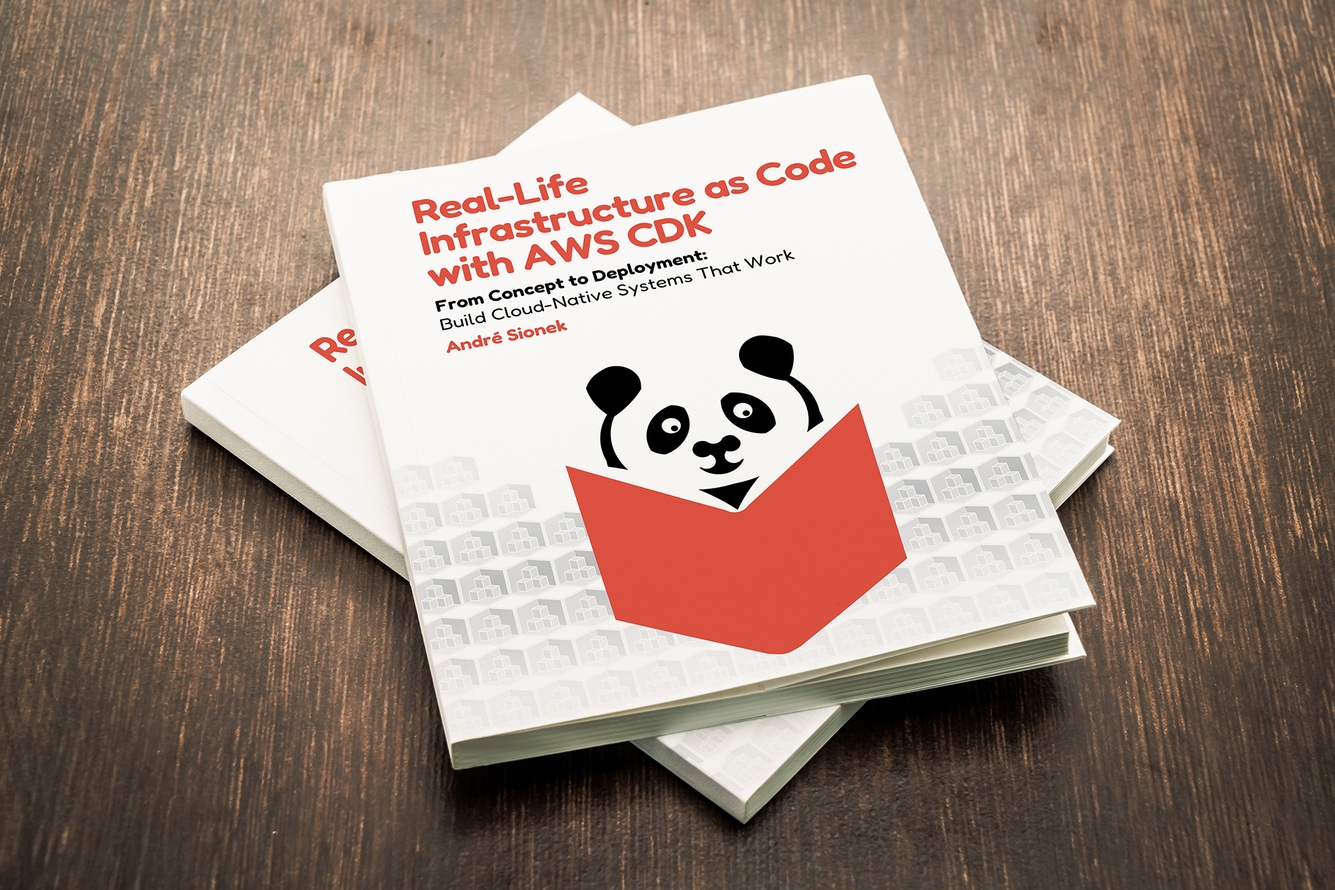
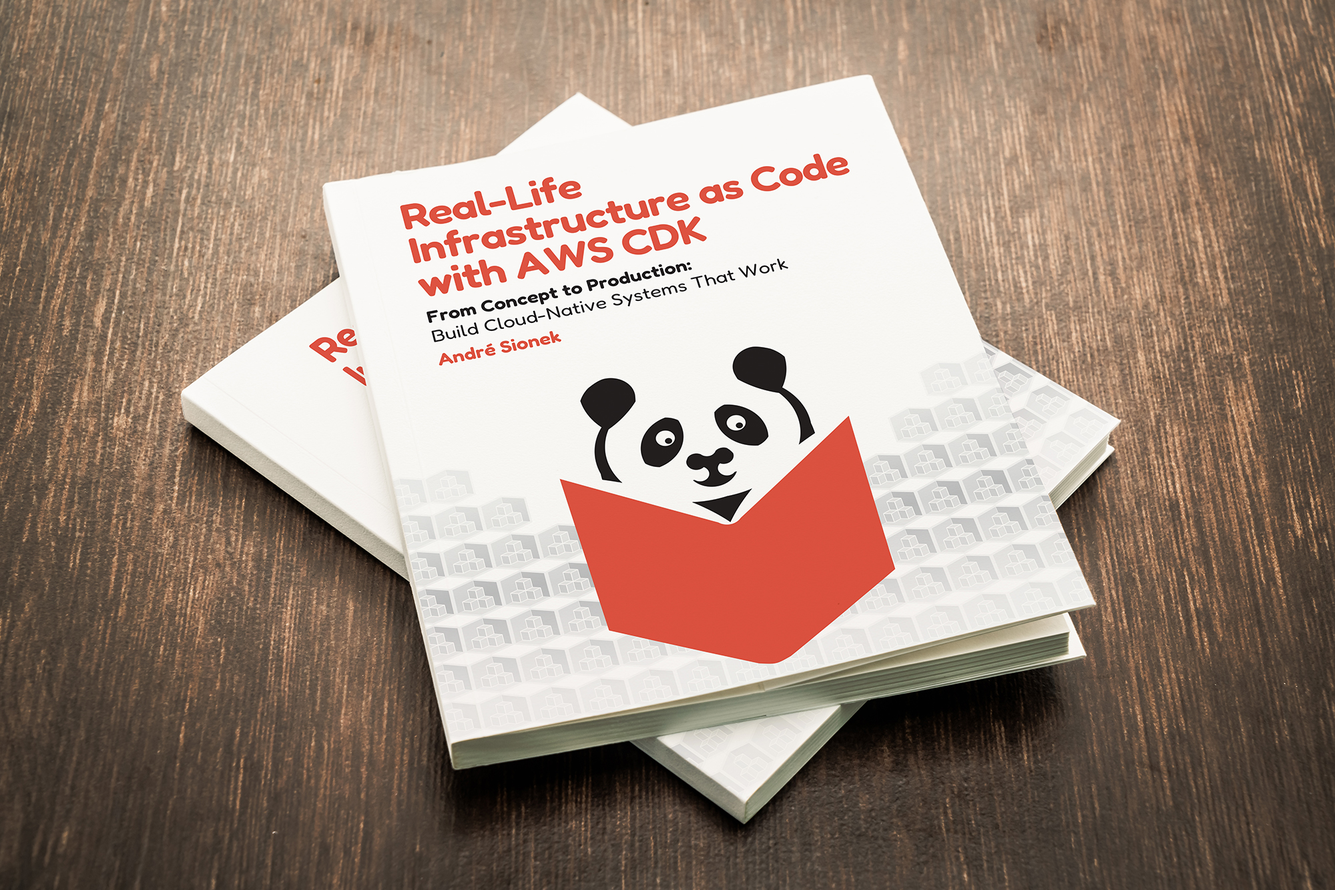
fix: adjust book title

Changed region(s): [[0.31, 0.3688, 0.806, 0.7684], [0.279, 0.1537, 0.651, 0.3996]]

diff --git a/app/index.html b/app/index.html
@@ -6,7 +6,7 @@
   <meta name="viewport" content="width=device-width, initial-scale=1.0" />
   <title>eBook: Real-life IaC with AWS CDK</title>
   <meta name="description"
-    content="Download your exclusive eBook now and dive into the world of Infrastructure as Code (IaC) with 'Real-Life Infrastructure as Code with AWS CDK - From Concept to Deployment: Build Cloud-Native Systems That Work'. Perfect for developers and data engineers, this guide offers practical examples, best practices, and expert insights into building and managing cloud infrastructure using AWS CDK. Whether you're looking to streamline deployments, enhance scalability, or secure your cloud environments, this book equips you with the knowledge to leverage IaC principles effectively. Transform your development workflow and achieve more with less code." />
+    content="Download your exclusive eBook now and dive into the world of Infrastructure as Code (IaC) with 'Real-Life Infrastructure as Code with AWS CDK - From Concept to Production: Build Cloud-Native Systems That Work'. Perfect for developers and data engineers, this guide offers practical examples, best practices, and expert insights into building and managing cloud infrastructure using AWS CDK. Whether you're looking to streamline deployments, enhance scalability, or secure your cloud environments, this book equips you with the knowledge to leverage IaC principles effectively. Transform your development workflow and achieve more with less code." />
   <meta name="keywords"
     content="CDK, AWS, AWS CDK, ebook, book, learn CDK, CDK for dummies, Iac with CDK, Infrastructure as Code, Cloud Development Kit, CloudFormation, DevOps, Cloud, IaC, Terraform, Python, Cloud Best Practices" />
   <meta name="author" content="André Sionek" />
@@ -18,7 +18,7 @@
   <meta property="og:url" content="https://real-life-iac.com" />
   <meta property="og:title" content="eBook: Real-life IaC with AWS CDK" />
   <meta property="og:description"
-    content="Download your exclusive eBook now and dive into the world of Infrastructure as Code (IaC) with 'Real-Life Infrastructure as Code with AWS CDK - From Concept to Deployment: Build Cloud-Native Systems That Work'. Perfect for developers and data engineers, this guide offers practical examples, best practices, and expert insights into building and managing cloud infrastructure using AWS CDK. Whether you're looking to streamline deployments, enhance scalability, or secure your cloud environments, this book equips you with the knowledge to leverage IaC principles effectively. Transform your development workflow and achieve more with less code." />
+    content="Download your exclusive eBook now and dive into the world of Infrastructure as Code (IaC) with 'Real-Life Infrastructure as Code with AWS CDK - From Concept to Production: Build Cloud-Native Systems That Work'. Perfect for developers and data engineers, this guide offers practical examples, best practices, and expert insights into building and managing cloud infrastructure using AWS CDK. Whether you're looking to streamline deployments, enhance scalability, or secure your cloud environments, this book equips you with the knowledge to leverage IaC principles effectively. Transform your development workflow and achieve more with less code." />
   <meta property="og:image" content="https://real-life-iac.com/og-image.png" />
   <meta property="og:site_name" content="Real-life Infrastructure as Code with AWS CDK" />
 
@@ -26,7 +26,7 @@
   <meta name="twitter:card" content="summary_large_image" />
   <meta name="twitter:title" content="eBook: Real-life IaC with AWS CDK" />
   <meta name="twitter:description"
-    content="Download your exclusive eBook now and dive into the world of Infrastructure as Code (IaC) with 'Real-Life Infrastructure as Code with AWS CDK - From Concept to Deployment: Build Cloud-Native Systems That Work'. Perfect for developers and data engineers, this guide offers practical examples, best practices, and expert insights into building and managing cloud infrastructure using AWS CDK. Whether you're looking to streamline deployments, enhance scalability, or secure your cloud environments, this book equips you with the knowledge to leverage IaC principles effectively. Transform your development workflow and achieve more with less code." />
+    content="Download your exclusive eBook now and dive into the world of Infrastructure as Code (IaC) with 'Real-Life Infrastructure as Code with AWS CDK - From Concept to Production: Build Cloud-Native Systems That Work'. Perfect for developers and data engineers, this guide offers practical examples, best practices, and expert insights into building and managing cloud infrastructure using AWS CDK. Whether you're looking to streamline deployments, enhance scalability, or secure your cloud environments, this book equips you with the knowledge to leverage IaC principles effectively. Transform your development workflow and achieve more with less code." />
   <meta name="twitter:image" content="https://real-life-iac.com/og-image.png" />
 
   <!-- Favicon -->

diff --git a/app/src/components/images.tsx b/app/src/components/images.tsx
@@ -7,8 +7,6 @@ export function MainImage() {
         className="relative w-full rounded-3xl bg-white"
         src="/main-image.jpg"
         alt="Logo"
-        width={300} // This will be the maximum width
-        height={100} // This will be the maximum height
       />
     </div>
   );
@@ -21,10 +19,9 @@ export function SponsorImage() {
     <div className="mb-8 flex flex-col items-center justify-center md:flex-row">
       <Img
         className="relative w-full rounded-3xl bg-white"
-        src="/sponsor-image.png"
+        src="/sponsor-image.jpg"
         alt="Book"
-        width={300} // This will be the maximum width
-        height={100} // This will be the maximum height
+
       />
     </div>
   );
